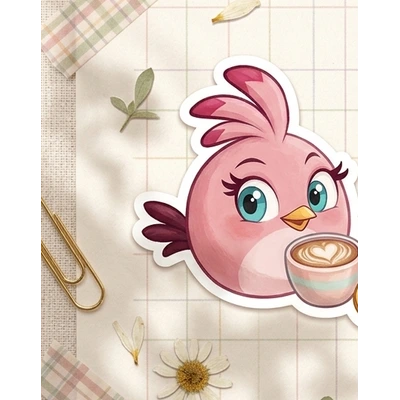
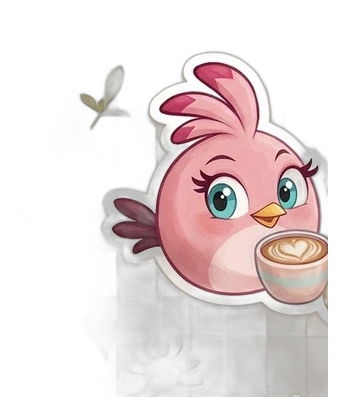
fix(joojo): remove background and switch all mascot poses to transparent PNGs

diff --git a/src/lib/joojo-reactive.ts b/src/lib/joojo-reactive.ts
@@ -65,7 +65,7 @@ export function computeJoojoReactiveState(
       state: "sleepy",
       title: "وقت استراحت و چرت 🌙",
       badge: "دیرخوابی / استراحت",
-      image: "/joojo/reactive/cozy-sleep.webp",
+      image: "/joojo/reactive/cozy-sleep.png",
       phrase: "دیروقته، چشمات خسته نشه؟ پتوی پشمیمو کشیدم، بیا بخوابیم… zZz",
       subtitle: "جوجو زیر پتوی صورتی آروم خوابیده",
       advice: "خواب به موقع فردا رو پرانرژی و متمرکز میکنه.",
@@ -79,7 +79,7 @@ export function computeJoojoReactiveState(
       state: "study_focus",
       title: "مود تمرکز و مطالعه 👓",
       badge: "تمرکز عمیق",
-      image: "/joojo/reactive/study-planner.webp",
+      image: "/joojo/reactive/study-planner.png",
       phrase: "عینک گردم رو زدم! سکوت و تمرکز روی هدفهای بزرگ ♡",
       subtitle: "جوجو با دفترچه برنامهریزی و مداد",
       advice: "تقسیم کارها به پارتهای ۲۵ دقیقهای معجزه میکنه.",
@@ -96,7 +96,7 @@ export function computeJoojoReactiveState(
         state: "todos_done",
         title: "شاهکار تیک زدن! ⭐",
         badge: "تسکهای کامل",
-        image: "/joojo/reactive/proud-streak.webp",
+        image: "/joojo/reactive/proud-streak.png",
         phrase: "همه کارهای امروز رو تیک زدی! تو واقعاً معرکهای، بهت افتخار میکنم! 🌸",
         subtitle: "جوجو با تاج گل و گونههای گلانداخته",
         advice: "حالا وقت یه استراحت دلچسب و نوشیدنی گرمه.",
@@ -110,7 +110,7 @@ export function computeJoojoReactiveState(
         state: "streak_proud",
         title: "قهرمان استمرار 🌿",
         badge: `استریک ${life.routines.maxStreak} روزه`,
-        image: "/joojo/reactive/proud-streak.webp",
+        image: "/joojo/reactive/proud-streak.png",
         phrase: `استریک عادتهات ${life.routines.maxStreak} روزه شد! تاج گل شایستهته 🌸`,
         subtitle: "جوجو با ستاره افتخار و حس غرور",
         advice: "استمرار از شدت مهمتره؛ همین دستفرمون رو برو جلو!",
@@ -124,7 +124,7 @@ export function computeJoojoReactiveState(
         state: "todos_pending",
         title: "دفترچه برنامهریزی 📖",
         badge: `${life.todos.overdue} کار عقبافتاده`,
-        image: "/joojo/reactive/study-planner.webp",
+        image: "/joojo/reactive/study-planner.png",
         phrase: "چند تا کار رو میز مونده، بیا همین الان یکیش رو خط بزنیم!",
         subtitle: "جوجو کنار پلنر با خطکش و مداد",
         advice: "سادهترین تسک رو انتخاب کن و در ۲ دقیقه شروع کن.",
@@ -141,7 +141,7 @@ export function computeJoojoReactiveState(
         state: "budget_warning",
         title: "حواست به بودجه باشه 🪙",
         badge: "هشدار مصرف",
-        image: "/joojo/pink-mascot.webp",
+        image: "/joojo/pink-mascot.png",
         phrase: "این ماه خرجها یکم از دخلت جلو زده؛ بیا حواسمون رو به خرجهای غیرضروری بدیم!",
         subtitle: "جوجو با نگاه مراقب و دلسوز",
         advice: "خریدهای غیرضروری این هفته رو به تعویق بنداز.",
@@ -156,7 +156,7 @@ export function computeJoojoReactiveState(
           state: "budget_champion",
           title: "مدیریت مالی طلایی 🪙",
           badge: `پسانداز ${savingsRate}٪`,
-          image: "/joojo/reactive/champion-wealth.webp",
+          image: "/joojo/reactive/champion-wealth.png",
           phrase: "وضعیت دخل و خرجت عالیه! سکههای طلای برکت جمع شدن ✨",
           subtitle: "جوجو با سکه طلای درخشان و برق چشمها",
           advice: "این روند رو ادامه بده تا هدفهای مالیت سریعتر محقق بشن.",
@@ -172,7 +172,7 @@ export function computeJoojoReactiveState(
       state: "morning",
       title: "صبح دلانگیز بخیر ☕",
       badge: "انرژی صبحگاهی",
-      image: "/joojo/reactive/morning-coffee.webp",
+      image: "/joojo/reactive/morning-coffee.png",
       phrase: "صبح بخیر قهرمان! یه قهوه گرم و یه روز پر از برکت و نظم ♡",
       subtitle: "جوجو با ماگ لاته با فوم قلبی",
       advice: "امروز سه اولویت اصلیت رو مشخص کن و شروع کن.",
@@ -185,7 +185,7 @@ export function computeJoojoReactiveState(
     state: "idle_happy",
     title: "جوجو کنارت رواله 🎀",
     badge: "همراه روزانه",
-    image: "/joojo/stella-classic.webp",
+    image: "/joojo/stella-classic.png",
     phrase: "من اینجام، کنارت برای یک روز آروم و منظم! ♡",
     subtitle: "جوجوی صورتی مهربان",
     advice: "قدمهای کوچک پیوسته، نتایج بزرگ میسازن.",

diff --git a/src/components/joojo-pet.tsx b/src/components/joojo-pet.tsx
@@ -156,7 +156,7 @@ function LivingJoojo({ inline, variant }: { inline: boolean; variant: StellaVari
   const currentSpeech = action === "idle" ? reactive.phrase : PHRASES[action];
   const currentImg =
     action === "sleep"
-      ? "/joojo/reactive/cozy-sleep.webp"
+      ? "/joojo/reactive/cozy-sleep.png"
       : action === "idle"
       ? (reactive.image || stellaImage(variant))
       : stellaImage(variant);

diff --git a/src/lib/joojo-assets.ts b/src/lib/joojo-assets.ts
@@ -8,4 +8,4 @@ export function stellaForPage(page?: string): StellaVariant {
   if (["journal", "relationships"].includes(page ?? "")) return "summermadness";
   return "classic";
 }
-export const stellaImage = (variant: StellaVariant) => `/joojo/stella-${variant}.webp`;
+export const stellaImage = (variant: StellaVariant) => `/joojo/stella-${variant}.png`;
